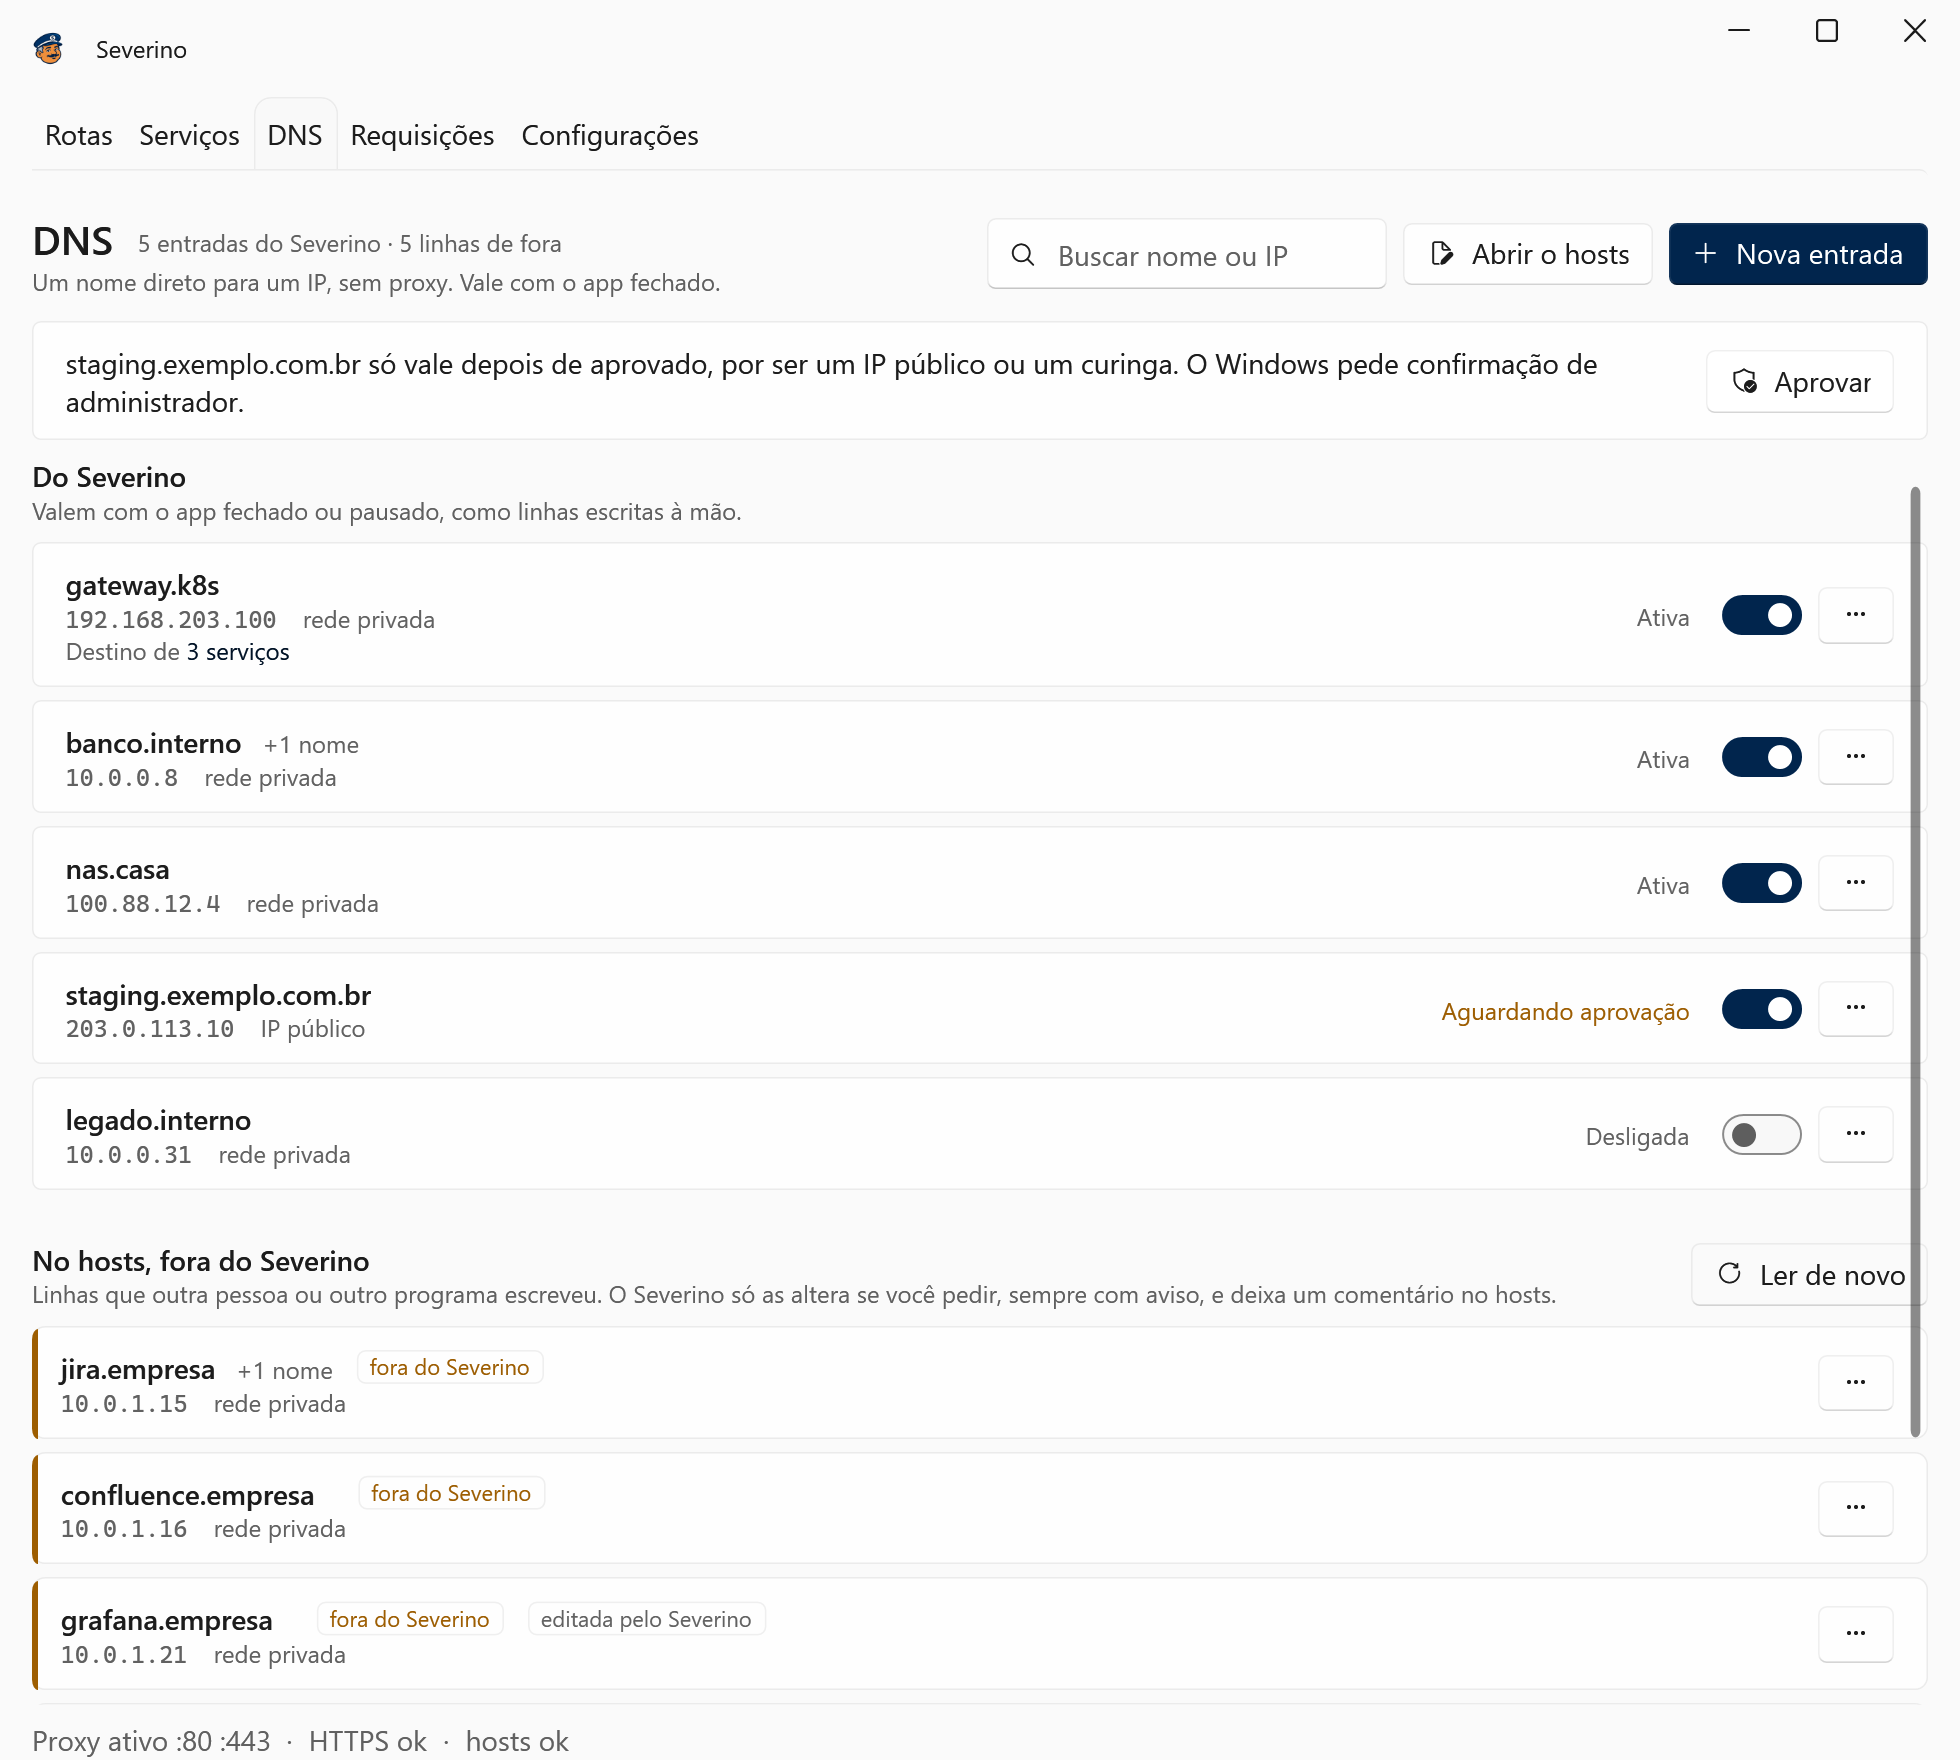
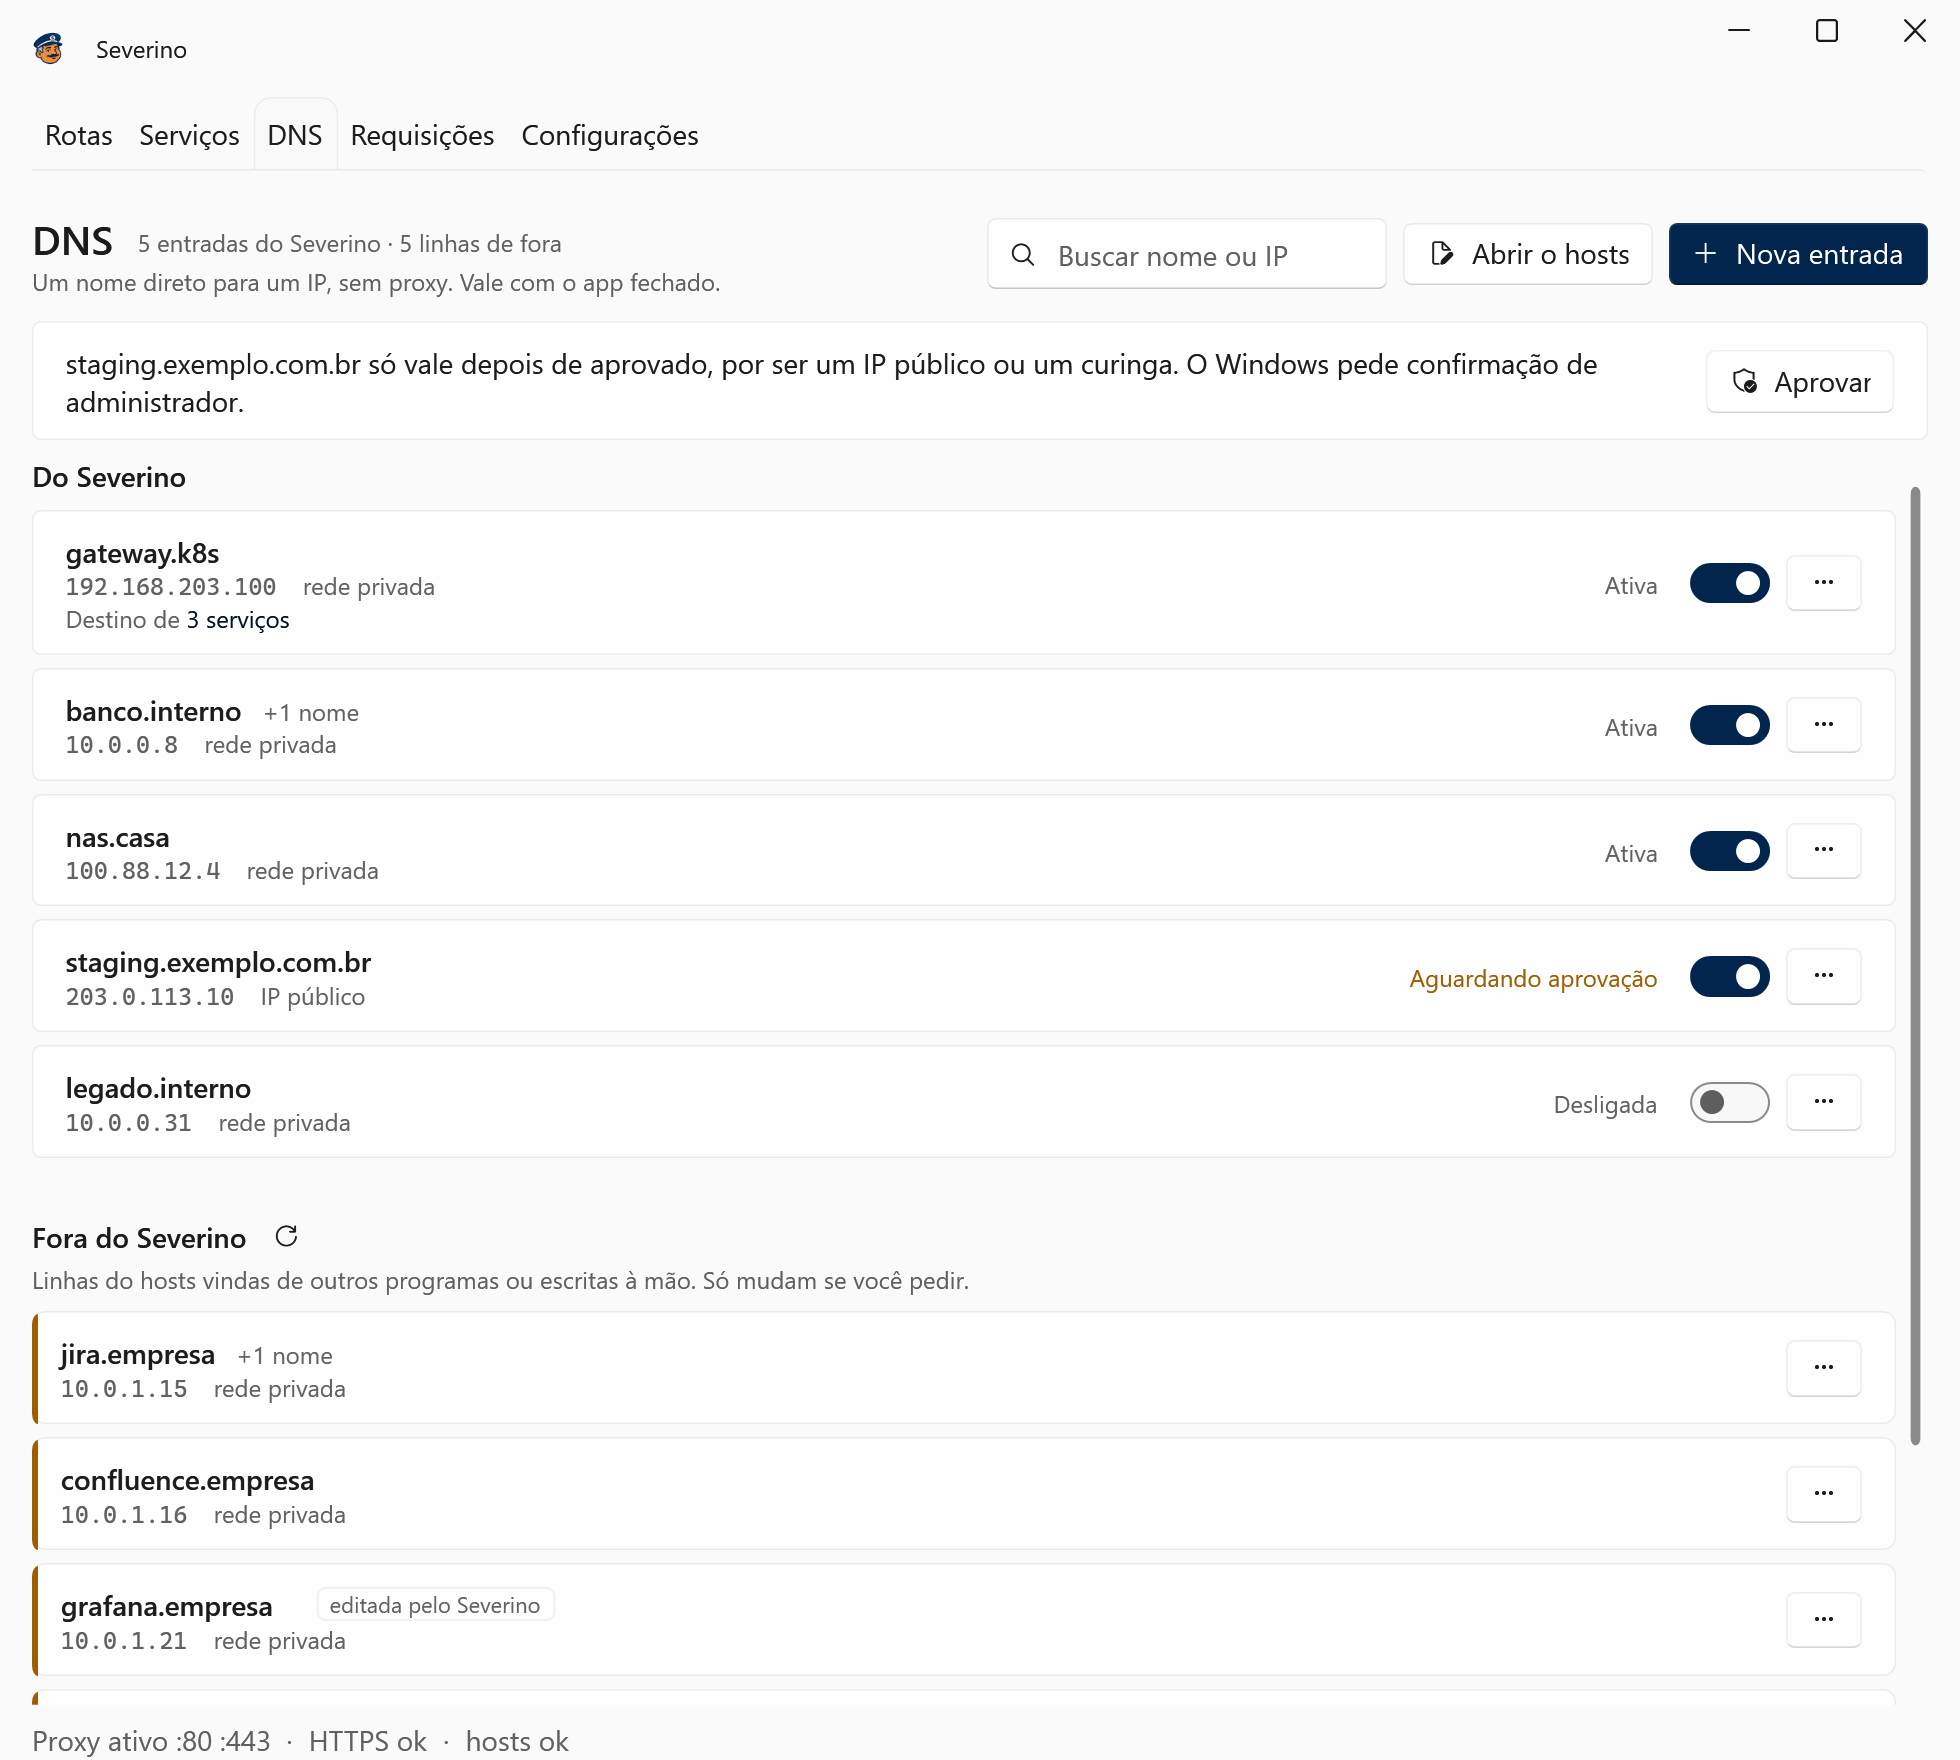
chore: release 0.5.1, with the new DNS tab on the site

diff --git a/docs/pt-BR/CHANGELOG.md b/docs/pt-BR/CHANGELOG.md
@@ -8,6 +8,8 @@ O formato segue o [Keep a Changelog](https://keepachangelog.com/pt-BR/1.1.0/), e
 
 ## [Unreleased]
 
+## [0.5.1] - 2026-10-11
+
 ### Corrigido
 
 - "Sair" na bandeja deixava o menu congelado na tela e o processo aberto.
@@ -45,5 +47,6 @@ Primeira versão publicada.
 - Instalador para Windows 10 e 11, 64 bits.
 - Site em <https://lucassm02.github.io/severino/>, em inglês e em português, com vídeo de apresentação e imagens para redes sociais.
 
-[Unreleased]: https://github.com/lucassm02/severino/compare/v0.5.0...HEAD
+[Unreleased]: https://github.com/lucassm02/severino/compare/v0.5.1...HEAD
+[0.5.1]: https://github.com/lucassm02/severino/compare/v0.5.0...v0.5.1
 [0.5.0]: https://github.com/lucassm02/severino/releases/tag/v0.5.0

diff --git a/CHANGELOG.md b/CHANGELOG.md
@@ -8,6 +8,8 @@ The format is based on [Keep a Changelog](https://keepachangelog.com/en/1.1.0/),
 
 ## [Unreleased]
 
+## [0.5.1] - 2026-10-11
+
 ### Fixed
 
 - "Exit" in the tray left the menu frozen on screen and the process running.
@@ -45,5 +47,6 @@ First published version.
 - Installer for Windows 10 and 11, 64-bit.
 - Website at <https://lucassm02.github.io/severino/>, in English and Portuguese, with an intro video and social media images.
 
-[Unreleased]: https://github.com/lucassm02/severino/compare/v0.5.0...HEAD
+[Unreleased]: https://github.com/lucassm02/severino/compare/v0.5.1...HEAD
+[0.5.1]: https://github.com/lucassm02/severino/compare/v0.5.0...v0.5.1
 [0.5.0]: https://github.com/lucassm02/severino/releases/tag/v0.5.0
